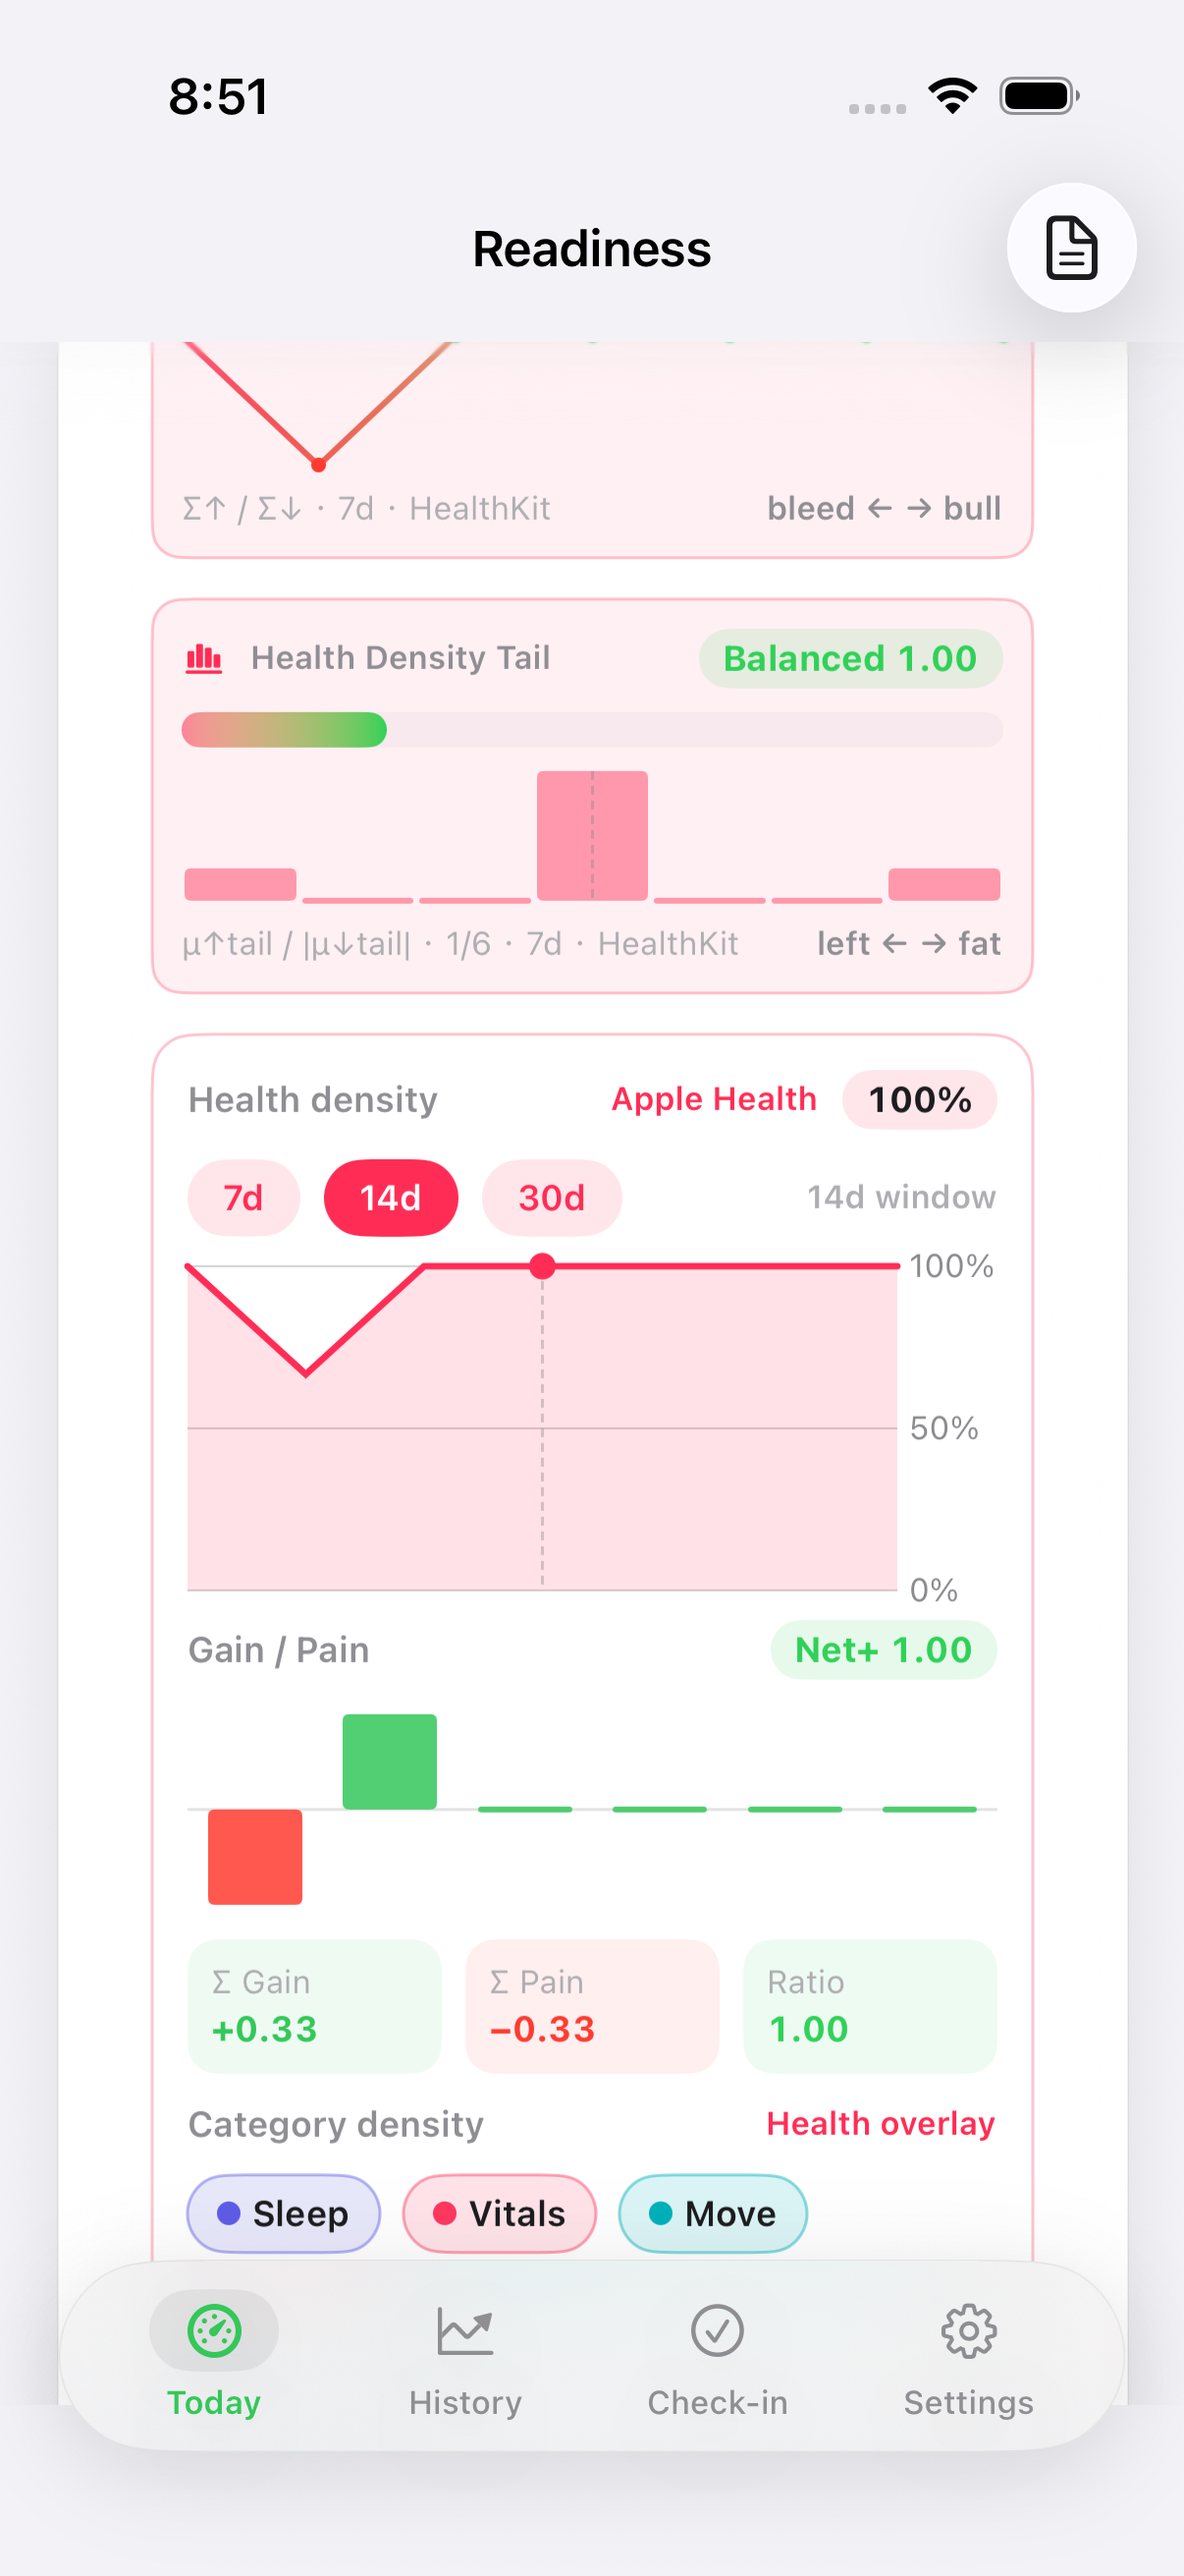
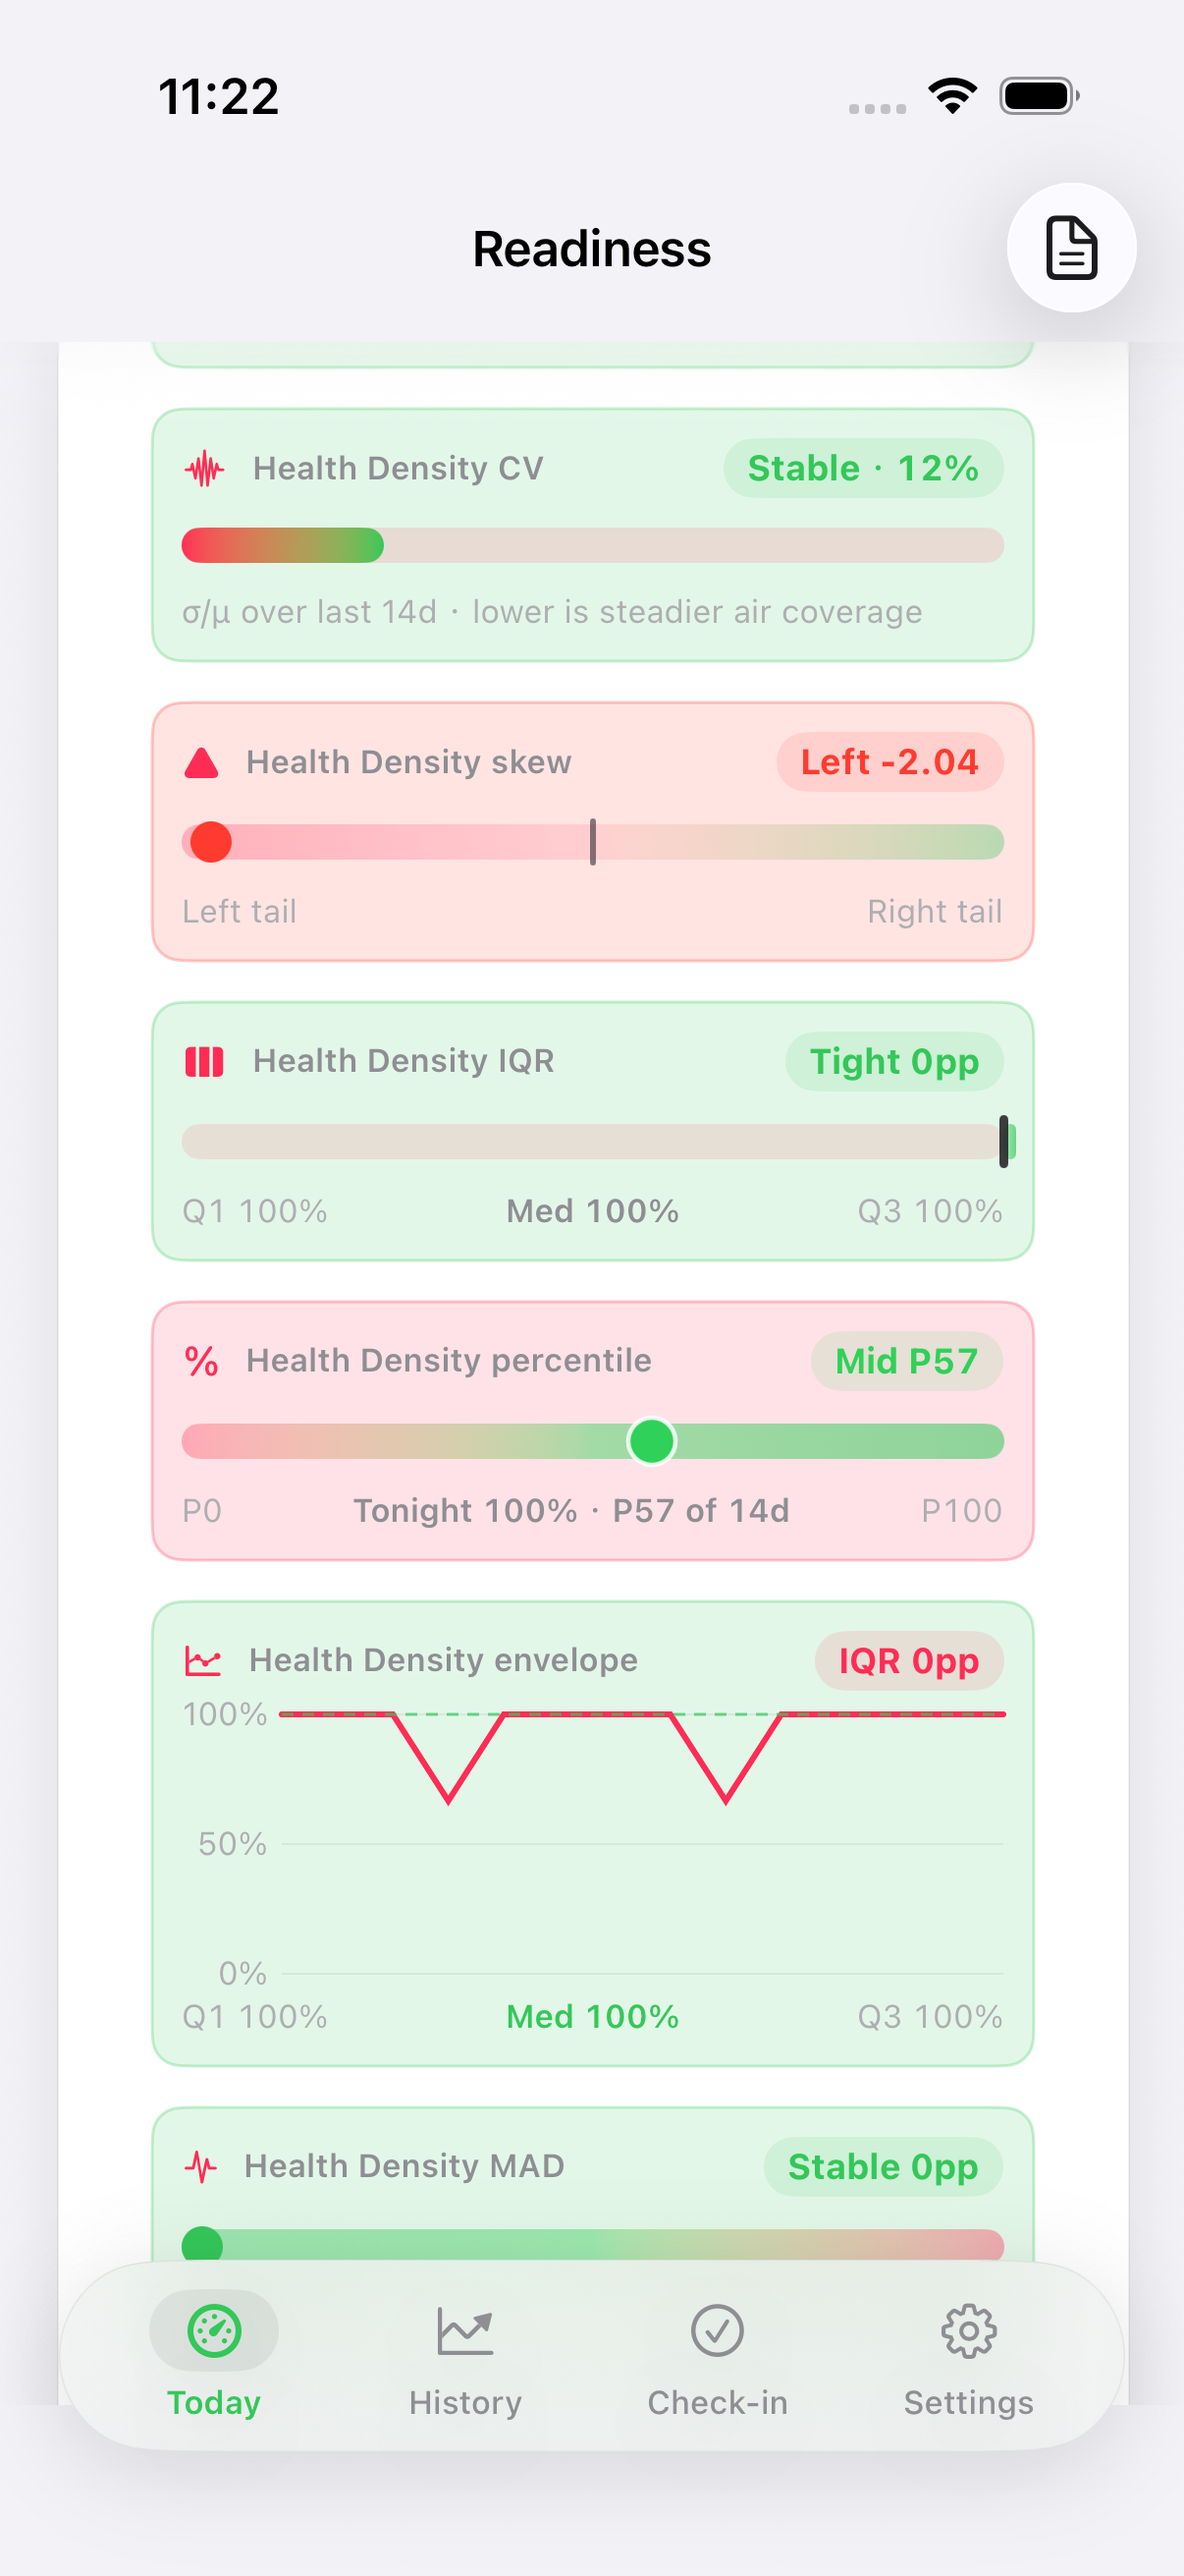
Honest #807: Density MAD meter (WHOOP wells) (#837)
Chrome-only restyle of the existing fitbit.air.density.mad /
health.air.density.mad container. The ratio track already encodes
the MAD reading itself (optimal/good/warning gradient capsule and
tone-filled needle); that track is left intact (not flattened to a
uniform 8/14 wash). Idle (no density > 0 in the 14d window)
ghost/hairline 8/28 secondaryText; active complete (has density,
Stable, madPP <= 8) 14/28 optimal; active negative (Volatile,
madPP > 15) 14/28 strain; else/partial (Mild, 8 < madPP <= 15)
14/28 accent. The verb capsule keeps its existing tone. Copy,
accessibilityIdentifier, accessibilityLabel, MAD math, and
READY formula unchanged.

UITest testDensityMAD passed 130.424s, 0
failures (observer 143.221s) on iPhone 17 Pro.
testReadinessLoadSimulatorSurface passed 772.594s, 0 failures
(observer 778.682s) on iPhone 17 Pro. Proof:
.audit/verify-density-mad.png

diff --git a/ReadinessTracker/Views/WhoopFeatures/FitbitAirDataCard.swift b/ReadinessTracker/Views/WhoopFeatures/FitbitAirDataCard.swift
@@ -2764,6 +2764,7 @@ struct FitbitAirDataCard: View {
 
     /// Honest #582: density MAD meter — median absolute deviation of last-14 dens (Google Health graphics).
     /// Honest #667: appleWatch / HealthKit uses Health pink + health.air.density.mad (#582 parity).
+    /// Honest #807: WHOOP wells on the existing density MAD meter container.
     @ViewBuilder
     private var densityMADMeter: some View {
         let days = Array(history.suffix(14))
@@ -2794,6 +2795,24 @@ struct FitbitAirDataCard: View {
         let meterColor: Color = isHealth ? Color(hex: "FF2D55") : accent
         let meterTitle = isHealth ? "Health Density MAD" : "Density MAD"
         let meterSID = isHealth ? SurfaceID.healthAirDensityMAD : SurfaceID.fitbitAirDensityMAD
+        // Honest #807: WHOOP wells on the existing density MAD meter container.
+        // The ratio track already encodes the MAD reading itself (optimal/good/warning
+        // gradient capsule and tone-filled needle) and is left intact — not flattened
+        // to a uniform 8/14 wash.
+        // The verb capsule keeps its existing tone. Label contrast holds
+        // (no white text on a light wash).
+        // Idle (no density > 0 in the 14d window) ghost/hairline 8/28 secondaryText;
+        // active complete (has density, Stable, madPP <= 8) 14/28 optimal;
+        // active negative (Volatile, madPP > 15) 14/28 strain;
+        // else/partial (Mild, 8 < madPP <= 15) 14/28 accent.
+        let wellIsIdle = !dens.contains(where: { $0 > 0 })
+        let wellTone: Color = wellIsIdle
+            ? RTColor.secondaryText
+            : (madPP <= 8 ? RTColor.optimal
+               : (madPP > 15 ? RTColor.strain : meterColor))
+        let wellFill: Color = wellIsIdle
+            ? RTColor.secondaryText.opacity(0.08)
+            : wellTone.opacity(0.14)
         return VStack(alignment: .leading, spacing: 8) {
             HStack(spacing: 8) {
                 Image(systemName: "waveform.path.ecg")
@@ -2840,10 +2859,10 @@ struct FitbitAirDataCard: View {
             }
         }
         .padding(10)
-        .background(meterColor.opacity(0.07), in: RoundedRectangle(cornerRadius: 10, style: .continuous))
+        .background(wellFill, in: RoundedRectangle(cornerRadius: 10, style: .continuous))
         .overlay(
             RoundedRectangle(cornerRadius: 10, style: .continuous)
-                .stroke(meterColor.opacity(0.28), lineWidth: 1)
+                .stroke(wellTone.opacity(0.28), lineWidth: 1)
         )
         .accessibilityIdentifier(meterSID)
         .accessibilityLabel("Density MAD \(verb) \(madPP) points")

diff --git a/ReadinessTrackerUITests/SurfacesUITests.swift b/ReadinessTrackerUITests/SurfacesUITests.swift
@@ -19014,6 +19014,43 @@ func testPeakHeartRateCardMetricDetailNavSurface() throws {
         if meterExistsNow(envHealth) { saveShot("verify-health-air-density-envelope.png") }
     }
 
+    func testDensityMAD() throws {
+        _ = app.staticTexts["Readiness"].waitForExistence(timeout: 8)
+        tapMainTab("Today")
+
+        let meter = app.descendants(matching: .any).matching(
+            NSPredicate(format: "identifier == %@ OR identifier == %@",
+                        "health.air.density.mad",
+                        "fitbit.air.density.mad")
+        ).firstMatch
+        let madFitbit = app.descendants(matching: .any)["fitbit.air.density.mad"].firstMatch
+        let madHealth = app.descendants(matching: .any)["health.air.density.mad"].firstMatch
+
+        var n = 0
+        while !meterVisible(meter) && n < 80 {
+            app.swipeUp()
+            n += 1
+        }
+
+        // If the SID exists but the well sits under the tab bar, a few
+        // upper-third nudges. Stop as soon as it is on-screen — no extra
+        // crop swipes.
+        var h = 0
+        while meterExistsNow(meter) && !meterVisible(meter) && h < 6 {
+            let window = app.windows.firstMatch
+            let start = window.coordinate(withNormalizedOffset: CGVector(dx: 0.5, dy: 0.28))
+            let end = window.coordinate(withNormalizedOffset: CGVector(dx: 0.5, dy: 0.12))
+            start.press(forDuration: 0.01, thenDragTo: end)
+            h += 1
+        }
+
+        XCTAssertTrue(meterVisible(meter),
+                      "fitbit.air.density.mad / health.air.density.mad")
+        saveShot("verify-density-mad.png")
+        if meterExistsNow(madFitbit) { saveShot("verify-fitbit-air-density-mad.png") }
+        if meterExistsNow(madHealth) { saveShot("verify-health-air-density-mad.png") }
+    }
+
     private func meterExistsNow(_ el: XCUIElement) -> Bool {
         el.waitForExistence(timeout: 0.1)
     }

diff --git a/ReadinessTracker/Design/Theme.swift b/ReadinessTracker/Design/Theme.swift
@@ -294,7 +294,7 @@ enum SurfaceID {
     static let readinessSimulatorLeverPolarity = "sim.load.lever.polarity"  // Honest #579 / #763
     static let fitbitAirDensityEnvelope = "fitbit.air.density.envelope"  // Honest #580 / #806
     static let readinessSimulatorABReadyDelta = "sim.load.ab.ready.delta"  // Honest #581 / #727
-    static let fitbitAirDensityMAD = "fitbit.air.density.mad"  // Honest #582
+    static let fitbitAirDensityMAD = "fitbit.air.density.mad"  // Honest #582 / #807
     static let readinessSimulatorZoneJump = "sim.load.zone.jump"  // Honest #583 / #758
     static let fitbitAirDensityTukey = "fitbit.air.density.tukey"  // Honest #584
     static let readinessSimulatorTaskLadder = "sim.load.tasks.ladder"  // Honest #585 / #730
@@ -360,7 +360,7 @@ enum SurfaceID {
     static let healthAirDensityZScore = "health.air.density.zscore"  // Honest #664
     static let healthAirDensitySlope = "health.air.density.slope"  // Honest #665
     static let healthAirDensityTukey = "health.air.density.tukey"  // Honest #666
-    static let healthAirDensityMAD = "health.air.density.mad"  // Honest #667
+    static let healthAirDensityMAD = "health.air.density.mad"  // Honest #667 / #807
     static let healthAirDensityEnvelope = "health.air.density.envelope"  // Honest #668 / #806
     static let healthAirDensityHist = "health.air.density.hist"  // Honest #669 / #801
     static let healthAirDensityCV = "health.air.density.cv"  // Honest #670 / #802

diff --git a/.audit/decision-log-2026-11-04.md b/.audit/decision-log-2026-11-04.md
@@ -729,3 +729,13 @@
 
 | 23:09 HKT | #806 density envelope chart | prove | UITest testReadinessLoadSimulatorSurface green /tmp/RT-DD806 (832.825s, 0 failures; observer 839.391s); model=deepseek-flash |
 | 23:09 HKT | #806 density envelope chart | land | proof PNG + receipt; SID fitbit.air.density.envelope / health.air.density.envelope; PR squash next; model=deepseek-flash |
+
+| 23:14 HKT | Honest #807 density MAD meter | model=deepseek-flash | restyle existing fitbit.air.density.mad / health.air.density.mad after density envelope #806; WHOOP wells on the meter container only; optimal/good/warning gradient track and tone-filled needle left intact (not flattened to a uniform 8/14 wash); idle (no density > 0 in 14d window) ghost/hairline 8/28 secondaryText; active complete (has density, Stable, madPP <= 8) 14/28 optimal; active negative (Volatile, madPP > 15) 14/28 strain; else/partial (Mild, 8 < madPP <= 15) 14/28 accent; verb capsule keeps existing tone; mechanical pattern-copy of #806/#805 container chrome applied locally (no separate model iterate needed) | mid-ship |
+| 23:14 HKT | Honest #807 density MAD meter | prove | starting build-for-testing /tmp/RT-DD807; model=deepseek-flash | mid-ship |
+
+| 23:19 HKT | #807 density MAD meter | prove | starting tight UITest testDensityMAD /tmp/RT-DD807; model=deepseek-flash | mid-ship |
+
+| 23:22 HKT | #807 density MAD meter | prove | UITest testDensityMAD green /tmp/RT-DD807 (130.424s, 0 failures; observer 143.221s); 18 swipeUps; proof /tmp/rt-audit/verify-density-mad.png (health.air.density.mad); starting testReadinessLoadSimulatorSurface; model=deepseek-flash | mid-ship |
+
+| 23:36 HKT | #807 density MAD meter | prove | UITest testReadinessLoadSimulatorSurface green /tmp/RT-DD807 (772.594s, 0 failures; observer 778.682s); model=deepseek-flash |
+| 23:36 HKT | #807 density MAD meter | land | proof PNG + receipt; SID fitbit.air.density.mad / health.air.density.mad; PR squash next; model=deepseek-flash |

diff --git a/.audit/density-mad.md b/.audit/density-mad.md
@@ -1,0 +1,10 @@
+# Honest #582 / #667 / #807: Density MAD meter (WHOOP wells)
+
+Fitbit/Health air density median-absolute-deviation meter of last-14 dens, immediately after the envelope chart on the Air card (below heatmap + WoW + forecast + streak + spark + hist + CV + skew + IQR + percentile + envelope; next unstyled meter body in the hist → gain/pain stack is the Tukey fences).
+Chrome-only WHOOP wells on the existing Honest #582 / #667 MAD meter container.
+The ratio track already encodes the MAD reading itself (optimal/good/warning gradient capsule and tone-filled needle). That track is left intact — not flattened to a uniform 8/14 wash.
+Idle (no density > 0 in the 14d window) = ghost/hairline 8/28 secondaryText; active complete (has density, Stable, madPP <= 8) = 14/28 optimal; active negative (Volatile, madPP > 15) = 14/28 strain; else/partial (Mild, 8 < madPP <= 15) = 14/28 accent.
+The verb capsule keeps its existing tone. Label contrast holds (no white text on a light wash).
+Copy, accessibilityIdentifier, accessibilityLabel, MAD math, and READY formula unchanged. No new SID.
+SurfaceID: `fitbit.air.density.mad` / `health.air.density.mad`
+Proof: `.audit/verify-density-mad.png`

diff --git a/.audit/features/density-mad.md b/.audit/features/density-mad.md
@@ -1,0 +1,8 @@
+# Honest #582 / #667 / #807: Density MAD meter (WHOOP wells)
+
+Chrome-only WHOOP wells on the existing density MAD meter (`fitbit.air.density.mad` / `health.air.density.mad`).
+The ratio track already encodes the MAD reading itself (optimal/good/warning gradient capsule and tone-filled needle) and is left intact (not flattened to a uniform 8/14 wash).
+Idle (no density > 0 in the 14d window) = ghost/hairline 8/28 secondaryText; active complete (has density, Stable, madPP <= 8) = 14/28 optimal; active negative (Volatile, madPP > 15) = 14/28 strain; else/partial (Mild, 8 < madPP <= 15) = 14/28 accent.
+The verb capsule keeps its existing tone. Copy, accessibilityIdentifier, accessibilityLabel, MAD math, and READY formula unchanged.
+SurfaceID: `fitbit.air.density.mad` / `health.air.density.mad`
+Proof: UITest → `.audit/verify-density-mad.png`

diff --git a/.audit/features/health-air-density-mad.md b/.audit/features/health-air-density-mad.md
@@ -1,7 +1,7 @@
-# Honest #667: Health Air density MAD
+# Honest #667 / #807: Health Air density MAD
 
-Median absolute deviation of last-14 dens (Health pink / Google Health graphics).
+Fitbit #582 / #807 parity for appleWatch / HealthKit — Health pink density MAD meter, chrome-only WHOOP wells on the existing container.
+Idle (no density > 0) ghost/hairline 8/28 secondaryText; complete (has density, Stable, madPP <= 8) 14/28 optimal; negative (Volatile, madPP > 15) 14/28 strain; else/partial (Mild, 8 < madPP <= 15) 14/28 accent. Gradient track and tone-filled needle left intact.
 SurfaceID: `health.air.density.mad`
-Parity: Fitbit #582
-Proof: `.audit/verify-health-air-density-mad.png`
-model=deepseek-flash
+Proof: `.audit/verify-density-mad.png`
+UITest: `testDensityMAD`

diff --git a/.audit/features/fitbit-air-density-mad.md b/.audit/features/fitbit-air-density-mad.md
@@ -1,5 +1,6 @@
-# Honest #582: Fitbit Air density MAD meter
+# Honest #582 / #807: Fitbit Air density MAD meter
 
-Median absolute deviation of last-14 dens (Google Health graphics).
+Median absolute deviation of last-14 dens (Google Health graphics). Chrome-only WHOOP wells on the existing MAD meter container.
+Idle (no density > 0) ghost/hairline 8/28 secondaryText; complete (has density, Stable, madPP <= 8) 14/28 optimal; negative (Volatile, madPP > 15) 14/28 strain; else/partial (Mild, 8 < madPP <= 15) 14/28 accent. Gradient track and tone-filled needle left intact.
 SurfaceID: `fitbit.air.density.mad`
-Proof: `.audit/verify-fitbit-air-density-mad.png`
+Proof: `.audit/verify-density-mad.png`

diff --git a/.audit/health-air-density-mad.md b/.audit/health-air-density-mad.md
@@ -1,6 +1,7 @@
-# Honest #667: Health Air density MAD
+# Honest #667 / #807: Health Air density MAD
 
-Fitbit #582 parity for appleWatch / HealthKit — Health pink MAD meter (14d dens).
+Fitbit #582 / #807 parity for appleWatch / HealthKit — Health pink MAD meter, chrome-only WHOOP wells on the existing container.
 SurfaceID: `health.air.density.mad`
-Proof: `.audit/verify-health-air-density-mad.png`
+Proof: `.audit/verify-density-mad.png`
+UITest: `testDensityMAD`
 model=deepseek-flash

diff --git a/.audit/fitbit-air-density-mad.md b/.audit/fitbit-air-density-mad.md
@@ -1,2 +1,5 @@
-Honest #582: Fitbit Air density MAD meter
-SurfaceID fitbit.air.density.mad
+# Honest #582 / #807: Fitbit Air density MAD meter
+
+Median absolute deviation of last-14 dens (Google Health graphics). Chrome-only WHOOP wells on the existing MAD meter container.
+SurfaceID: `fitbit.air.density.mad`
+Proof: `.audit/verify-density-mad.png`
